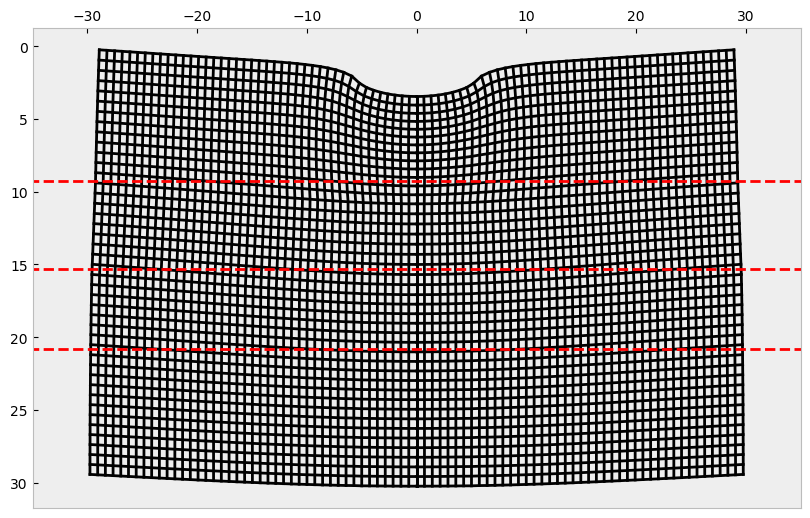
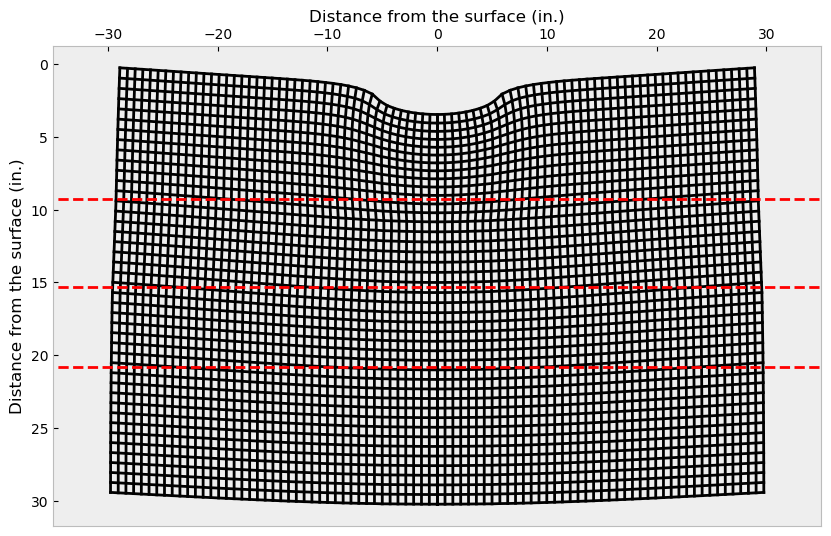
*MASTIC*

diff --git a/Distorted_Grid/Distorted_Grid.py b/Distorted_Grid/Distorted_Grid.py
@@ -102,6 +102,9 @@ except:
     ax1.plot(line_X, line_Y, 'r--')
     ax1.set_xlim([-35, 35])
     ax1.grid(False)
-    plt.gca().invert_yaxis()
+    ax1.set_xlabel('Distance from the surface (in.)')
+    ax1.set_ylabel('Distance from the surface (in.)')
+    ax1.xaxis.set_label_position('top') 
+    plt.gca().invert_yaxis()    
     plt.show()
 
